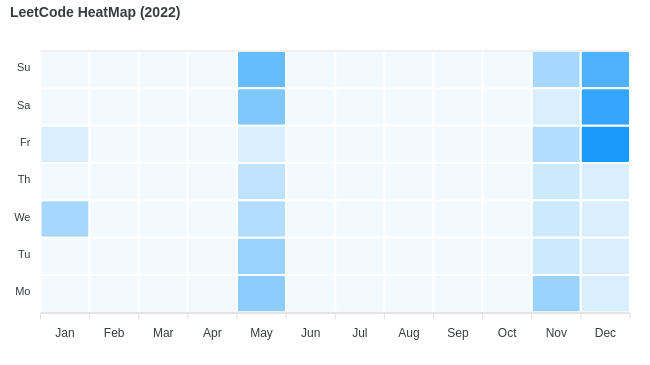
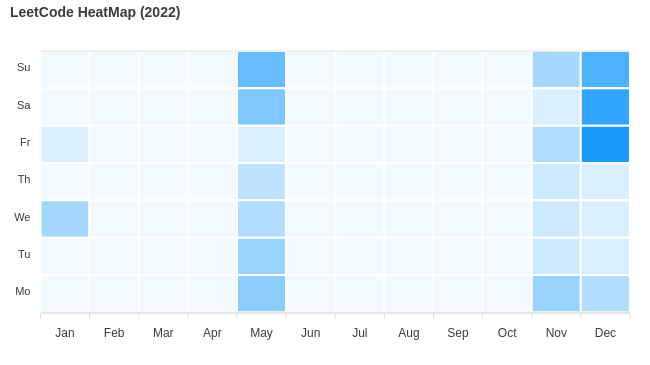
update heatmap.png

Changed region(s): [[0.8923, 0.7534, 0.9846, 0.874]]

diff --git a/README.md b/README.md
@@ -3,7 +3,7 @@
 
 Collection of LeetCode questions to ace the coding interview! - Created using [LeetHub](https://github.com/QasimWani/LeetHub)
 
-> Questions solved 136
+> Questions solved 139
 
 ## Contribution 
 
